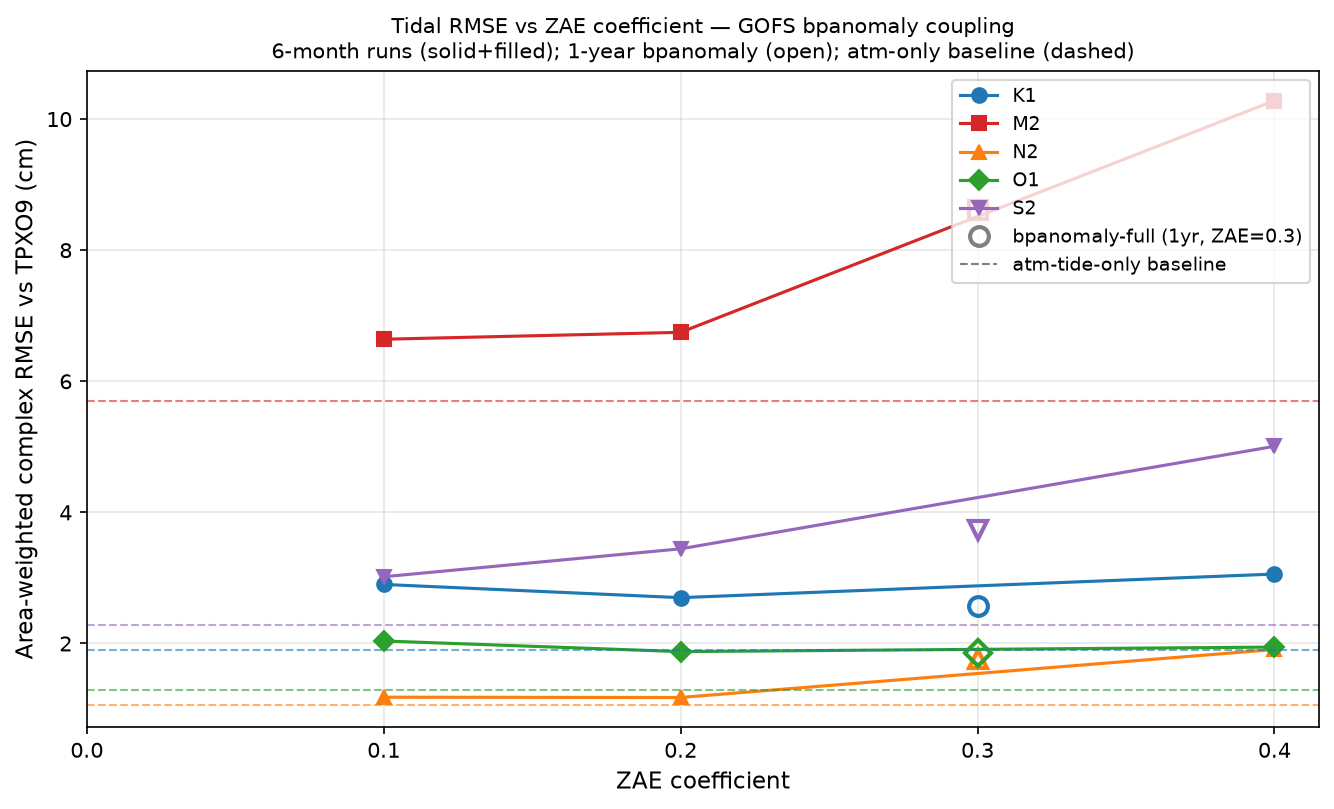
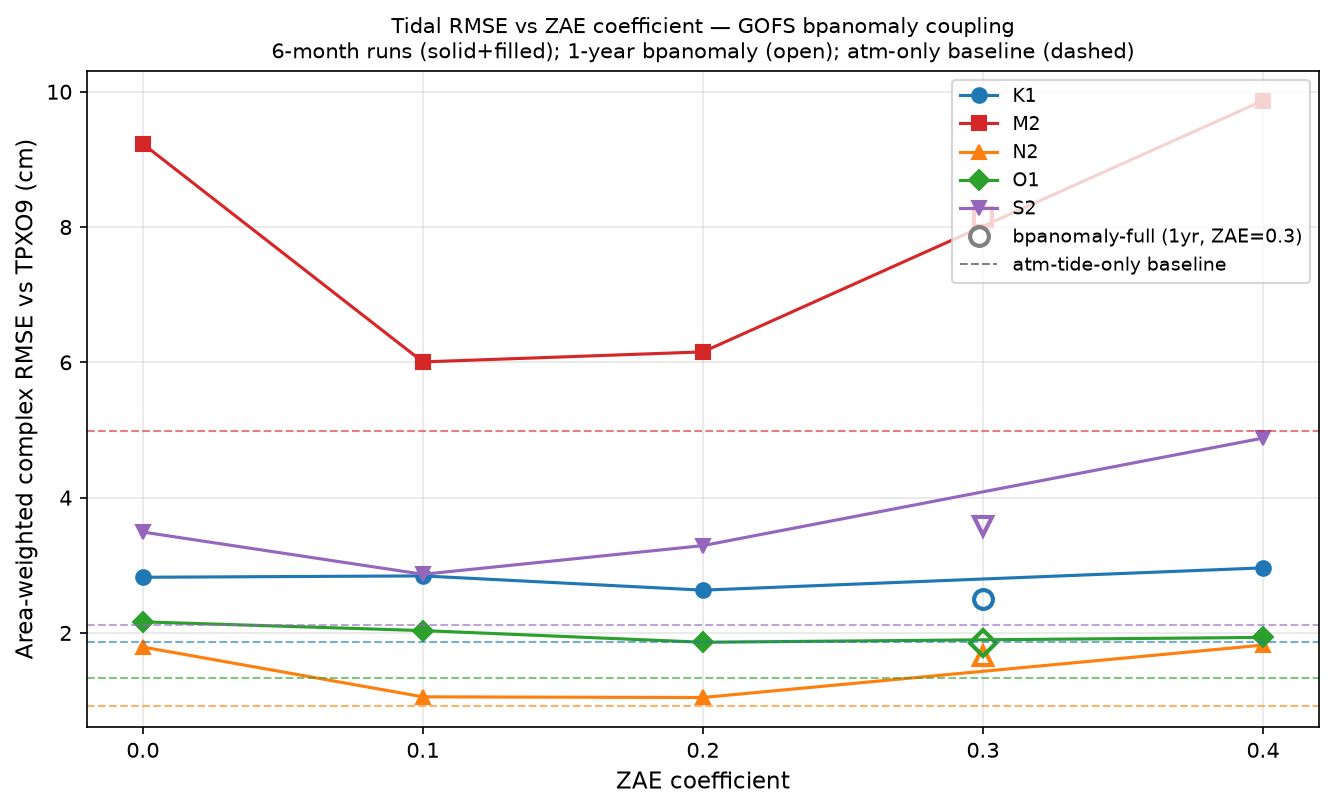
Add ZAE=0.0 run to dashboard and refresh all ZAE tables
- Inject TPXO9 fields into ZAE0.0 harmonic file from existing extraction
- Generate amplitude/phase error maps and copy compass harmonic plots
- Add ZAE=0.0 tab to tpxo.html and zae.html constituent map viewers
- Refresh all RMSE tables with consistent depth>20m global mask
- Update M2 spatial map to 4-panel (0.0, 0.1, 0.2, 0.4)
- Update key findings: ZAE=0.0 catastrophic shallow M2 (22 cm), optimum 0.1–0.2

diff --git a/zae.html b/zae.html
@@ -237,17 +237,22 @@
     <div class="key-finding">
       <strong>No ZAE value recovers baseline accuracy.</strong>
       The atm-tide-only run (ZAE=0.3, 1yr, no GOFS coupling) outperforms every
-      bpanomaly run for all five constituents.
+      bpanomaly run for all five constituents globally.
     </div>
     <div class="key-finding">
-      <strong>ZAE=0.1 is best for semidiurnals (M2, S2, N2) in this coupled set.</strong>
-      RMSE is nearly flat between 0.1 and 0.2, then degrades sharply at 0.4 —
-      suggesting over-dissipation of the barotropic wave at high drag.
+      <strong>ZAE=0.0 and ZAE=0.4 are both poor for M2 (globally ~9.2 and 9.9 cm).</strong>
+      ZAE=0.1–0.2 is the sweet spot, with M2 global RMSE around 6 cm — the optimum
+      is broad and flat rather than sharply peaked.
     </div>
     <div class="key-finding">
-      <strong>Diurnals (K1, O1) are less sensitive to ZAE</strong> than semidiurnals,
-      consistent with the dominant error mechanism being phase shift of the M2/S2
-      barotropic wave rather than amplitude dissipation.
+      <strong>ZAE=0.0 produces catastrophic M2 shallow RMSE (22 cm)</strong> — without
+      internal wave drag the barotropic tide is severely over-predicted in shelf regions.
+      ZAE=0.1 cuts this nearly in half.
+    </div>
+    <div class="key-finding">
+      <strong>Diurnals (K1, O1) show a different optimum than semidiurnals.</strong>
+      ZAE=0.2 is best for K1 and O1 globally, while ZAE=0.1 is best for M2, S2, N2 —
+      consistent with the dominant error for diurnals being amplitude rather than phase.
     </div>
   </div>
 
@@ -258,7 +263,7 @@
       <img src="img/zae/rmse_vs_zae.png" alt="RMSE vs ZAE coefficient">
     </div>
     <p class="caption">
-      Filled markers: 6-month bpanomaly runs at ZAE=0.1, 0.2, 0.4.
+      Filled markers: 6-month bpanomaly runs at ZAE=0.0, 0.1, 0.2, 0.4.
       Open markers: 1-year bpanomaly run at ZAE=0.3.
       Dashed lines: atm-tide-only baseline (1yr, ZAE=0.3).
     </p>
@@ -268,11 +273,11 @@
   <div class="card">
     <h2>M2 Spatial RMSE Maps</h2>
     <div class="overview-img">
-      <img src="img/zae/M2_rmse_maps.png" alt="M2 RMSE maps for ZAE=0.1, 0.2, 0.4">
+      <img src="img/zae/M2_rmse_maps.png" alt="M2 RMSE maps for ZAE=0.0, 0.1, 0.2, 0.4">
     </div>
     <p class="caption">
-      M2 complex RMSE (cm) vs TPXO9 for ZAE=0.1 (left), 0.2 (center), and 0.4 (right).
-      Common color scale clipped at 98th percentile across the three maps.
+      M2 complex RMSE (cm) vs TPXO9 for ZAE=0.0 (left), 0.1, 0.2, and 0.4 (right).
+      Common color scale clipped at 98th percentile across the four maps.
     </p>
   </div>
 
@@ -281,7 +286,8 @@
     <h2>Constituent Maps by ZAE Run</h2>
 
     <div class="run-tabs" id="run-tabs">
-      <div class="run-tab active" onclick="selectRun('ZAE0.1')">ZAE=0.1</div>
+      <div class="run-tab active" onclick="selectRun('ZAE0.0')">ZAE=0.0</div>
+      <div class="run-tab"       onclick="selectRun('ZAE0.1')">ZAE=0.1</div>
       <div class="run-tab"       onclick="selectRun('ZAE0.2')">ZAE=0.2</div>
       <div class="run-tab"       onclick="selectRun('ZAE0.4')">ZAE=0.4</div>
     </div>
@@ -302,7 +308,7 @@
     </div>
 
     <div class="plot-display" id="plot-display">
-      <img id="plot-img" src="img/tpxo/ZAE0.1/M2_plot.png" alt="M2 ZAE0.1 TPXO9 comparison">
+      <img id="plot-img" src="img/tpxo/ZAE0.0/M2_plot.png" alt="M2 ZAE0.0 TPXO9 comparison">
     </div>
     <p class="caption" id="plot-caption">
       Each panel: (top-left) MPAS-Ocean amplitude, (top-right) TPXO9 amplitude,
@@ -327,6 +333,7 @@
         <thead>
           <tr>
             <th>Con</th>
+            <th><span class="run-badge" style="background:#ff7f0e"></span>ZAE=0.0<br><small>6mo</small></th>
             <th><span class="run-badge" style="background:#ff7f0e"></span>ZAE=0.1<br><small>6mo</small></th>
             <th><span class="run-badge" style="background:#ff7f0e"></span>ZAE=0.2<br><small>6mo</small></th>
             <th><span class="run-badge" style="background:#ff7f0e"></span>ZAE=0.4<br><small>6mo</small></th>
@@ -335,11 +342,11 @@
           </tr>
         </thead>
         <tbody>
-          <tr><td>M2</td> <td class="best">5.867</td> <td>6.009</td> <td class="worst">9.763</td> <td>8.024</td> <td>4.837</td></tr>
-          <tr><td>S2</td> <td class="best">2.738</td> <td>3.180</td> <td class="worst">4.779</td> <td>3.480</td> <td>1.953</td></tr>
-          <tr><td>N2</td> <td class="best">1.023</td> <td>1.019</td> <td class="worst">1.803</td> <td>1.636</td> <td>0.886</td></tr>
-          <tr><td>K1</td> <td>2.752</td>          <td class="best">2.534</td> <td class="worst">2.879</td> <td>2.401</td> <td>1.732</td></tr>
-          <tr><td>O1</td> <td>1.921</td>          <td class="best">1.747</td> <td>1.824</td>          <td>1.740</td> <td class="best">1.158</td></tr>
+          <tr><td>M2</td> <td>9.230</td> <td class="best">6.006</td> <td>6.154</td> <td class="worst">9.869</td> <td>8.142</td> <td>4.979</td></tr>
+          <tr><td>S2</td> <td>3.491</td> <td class="best">2.867</td> <td>3.291</td> <td class="worst">4.881</td> <td>3.582</td> <td>2.117</td></tr>
+          <tr><td>N2</td> <td>1.791</td> <td class="best">1.055</td> <td>1.046</td> <td class="worst">1.820</td> <td>1.654</td> <td>0.920</td></tr>
+          <tr><td>K1</td> <td>2.823</td> <td>2.843</td>          <td class="best">2.632</td> <td class="worst">2.962</td> <td>2.496</td> <td>1.861</td></tr>
+          <tr><td>O1</td> <td class="worst">2.164</td> <td>2.034</td> <td class="best">1.862</td> <td>1.934</td> <td>1.858</td> <td>1.336</td></tr>
         </tbody>
       </table>
     </div>
@@ -350,6 +357,7 @@
         <thead>
           <tr>
             <th>Con</th>
+            <th><span class="run-badge" style="background:#ff7f0e"></span>ZAE=0.0<br><small>6mo</small></th>
             <th><span class="run-badge" style="background:#ff7f0e"></span>ZAE=0.1<br><small>6mo</small></th>
             <th><span class="run-badge" style="background:#ff7f0e"></span>ZAE=0.2<br><small>6mo</small></th>
             <th><span class="run-badge" style="background:#ff7f0e"></span>ZAE=0.4<br><small>6mo</small></th>
@@ -358,11 +366,11 @@
           </tr>
         </thead>
         <tbody>
-          <tr><td>M2</td> <td class="best">3.759</td> <td>4.621</td> <td class="worst">9.019</td> <td>7.135</td> <td>2.695</td></tr>
-          <tr><td>S2</td> <td class="best">2.113</td> <td>2.657</td> <td class="worst">4.320</td> <td>3.065</td> <td>1.336</td></tr>
-          <tr><td>N2</td> <td class="best">0.695</td> <td>0.821</td> <td class="worst">1.672</td> <td>1.426</td> <td>0.542</td></tr>
-          <tr><td>K1</td> <td>1.609</td>          <td class="best">1.339</td> <td class="worst">1.754</td> <td>1.261</td> <td>1.134</td></tr>
-          <tr><td>O1</td> <td class="worst">1.365</td> <td>1.132</td> <td>1.261</td>          <td>1.112</td> <td class="best">0.686</td></tr>
+          <tr><td>M2</td> <td>6.966</td> <td class="best">3.759</td> <td>4.621</td> <td class="worst">9.019</td> <td>7.135</td> <td>2.695</td></tr>
+          <tr><td>S2</td> <td>2.818</td> <td class="best">2.113</td> <td>2.657</td> <td class="worst">4.320</td> <td>3.065</td> <td>1.336</td></tr>
+          <tr><td>N2</td> <td>1.423</td> <td class="best">0.695</td> <td>0.821</td> <td class="worst">1.672</td> <td>1.426</td> <td>0.542</td></tr>
+          <tr><td>K1</td> <td class="worst">1.762</td> <td>1.609</td> <td class="best">1.339</td> <td>1.754</td> <td>1.261</td> <td>1.134</td></tr>
+          <tr><td>O1</td> <td class="worst">1.439</td> <td>1.365</td> <td class="best">1.132</td> <td>1.261</td> <td>1.112</td> <td>0.686</td></tr>
         </tbody>
       </table>
     </div>
@@ -373,6 +381,7 @@
         <thead>
           <tr>
             <th>Con</th>
+            <th><span class="run-badge" style="background:#ff7f0e"></span>ZAE=0.0<br><small>6mo</small></th>
             <th><span class="run-badge" style="background:#ff7f0e"></span>ZAE=0.1<br><small>6mo</small></th>
             <th><span class="run-badge" style="background:#ff7f0e"></span>ZAE=0.2<br><small>6mo</small></th>
             <th><span class="run-badge" style="background:#ff7f0e"></span>ZAE=0.4<br><small>6mo</small></th>
@@ -381,18 +390,18 @@
           </tr>
         </thead>
         <tbody>
-          <tr><td>M2</td> <td>16.293</td>          <td class="best">14.448</td> <td class="worst">16.925</td> <td>15.379</td> <td>14.182</td></tr>
-          <tr><td>S2</td> <td class="best">6.366</td>  <td>6.869</td>          <td class="worst">8.798</td>  <td>6.824</td>  <td>4.545</td></tr>
-          <tr><td>N2</td> <td>2.703</td>           <td class="best">2.283</td>  <td>3.053</td>           <td class="worst">3.293</td>  <td>2.476</td></tr>
-          <tr><td>K1</td> <td>7.210</td>           <td>7.008</td>           <td class="worst">7.701</td>  <td class="best">6.624</td>  <td>3.966</td></tr>
-          <tr><td>O1</td> <td class="worst">4.607</td>  <td>4.536</td>          <td>4.467</td>           <td>4.523</td>           <td class="best">2.936</td></tr>
+          <tr><td>M2</td> <td class="worst">22.055</td> <td>16.286</td> <td class="best">14.442</td> <td>16.920</td> <td>15.373</td> <td>14.176</td></tr>
+          <tr><td>S2</td> <td>6.724</td>            <td class="best">6.368</td> <td>6.870</td> <td class="worst">8.797</td> <td>6.825</td>  <td>4.553</td></tr>
+          <tr><td>N2</td> <td class="worst">3.946</td>  <td>2.702</td> <td class="best">2.283</td> <td>3.053</td>           <td>3.292</td>  <td>2.475</td></tr>
+          <tr><td>K1</td> <td>6.686</td>            <td>7.213</td>          <td>7.011</td> <td class="worst">7.702</td>  <td class="best">6.626</td>  <td>3.973</td></tr>
+          <tr><td>O1</td> <td class="worst">5.136</td>  <td>4.615</td>         <td>4.543</td> <td>4.475</td>           <td>4.530</td>           <td class="best">2.946</td></tr>
         </tbody>
       </table>
     </div>
 
     <p class="caption">
       All values in cm. ★ Atm-Only is the target baseline (no GOFS coupling).
-      Green = lowest RMSE among the three 6-month ZAE runs; red = highest.
+      Green = lowest RMSE among the four 6-month ZAE runs; red = highest.
       Atm-Only and BP-Anomaly 1yr columns shown for reference only.
     </p>
   </div>
@@ -400,12 +409,12 @@
 </div>
 
 <script>
-  var currentRun   = 'ZAE0.1';
+  var currentRun   = 'ZAE0.0';
   var currentConst = 'M2';
   var currentView  = 'harmonic';
 
-  var runDirs = { 'ZAE0.1': 'img/tpxo/ZAE0.1', 'ZAE0.2': 'img/tpxo/ZAE0.2', 'ZAE0.4': 'img/tpxo/ZAE0.4' };
-  var runKeys = ['ZAE0.1', 'ZAE0.2', 'ZAE0.4'];
+  var runDirs = { 'ZAE0.0': 'img/tpxo/ZAE0.0', 'ZAE0.1': 'img/tpxo/ZAE0.1', 'ZAE0.2': 'img/tpxo/ZAE0.2', 'ZAE0.4': 'img/tpxo/ZAE0.4' };
+  var runKeys = ['ZAE0.0', 'ZAE0.1', 'ZAE0.2', 'ZAE0.4'];
 
   var viewFiles = { 'harmonic': '_plot.png', 'amperr': '_amp_error.png', 'phaseerr': '_phase_error.png' };
   var captions = {

diff --git a/tpxo.html b/tpxo.html
@@ -246,17 +246,18 @@
             <th>Con</th>
             <th><span class="run-badge" style="background:#2ca02c"></span>BP Anomaly<br><small>1yr</small></th>
             <th><span class="run-badge" style="background:#1f77b4"></span>Atm Only<br><small>1yr</small></th>
+            <th><span class="run-badge" style="background:#ff7f0e"></span>ZAE=0.0<br><small>6mo</small></th>
             <th><span class="run-badge" style="background:#ff7f0e"></span>ZAE=0.1<br><small>6mo</small></th>
             <th><span class="run-badge" style="background:#ff7f0e"></span>ZAE=0.2<br><small>6mo</small></th>
             <th><span class="run-badge" style="background:#ff7f0e"></span>ZAE=0.4<br><small>6mo</small></th>
           </tr>
         </thead>
         <tbody>
-          <tr><td>M2</td> <td>8.024</td>          <td class="best">4.837</td> <td>5.867</td> <td>6.009</td> <td class="worst">9.763</td></tr>
-          <tr><td>S2</td> <td>3.480</td>          <td class="best">1.953</td> <td>2.738</td> <td>3.180</td> <td class="worst">4.779</td></tr>
-          <tr><td>N2</td> <td>1.636</td>          <td class="best">0.886</td> <td>1.023</td> <td>1.019</td> <td class="worst">1.803</td></tr>
-          <tr><td>K1</td> <td class="worst">2.401</td> <td class="best">1.732</td> <td>2.752</td> <td>2.534</td> <td>2.879</td></tr>
-          <tr><td>O1</td> <td>1.740</td>          <td class="best">1.158</td> <td>1.921</td> <td>1.747</td> <td class="worst">1.824</td></tr>
+          <tr><td>M2</td> <td>8.142</td>          <td class="best">4.979</td> <td>9.230</td> <td>6.006</td> <td>6.154</td> <td class="worst">9.869</td></tr>
+          <tr><td>S2</td> <td>3.582</td>          <td class="best">2.117</td> <td>3.491</td> <td>2.867</td> <td>3.291</td> <td class="worst">4.881</td></tr>
+          <tr><td>N2</td> <td>1.654</td>          <td class="best">0.920</td> <td>1.791</td> <td>1.055</td> <td>1.046</td> <td class="worst">1.820</td></tr>
+          <tr><td>K1</td> <td>2.496</td>          <td class="best">1.861</td> <td>2.823</td> <td>2.843</td> <td>2.632</td> <td class="worst">2.962</td></tr>
+          <tr><td>O1</td> <td>1.858</td>          <td class="best">1.336</td> <td class="worst">2.164</td> <td>2.034</td> <td>1.862</td> <td>1.934</td></tr>
         </tbody>
       </table>
     </div>
@@ -269,17 +270,18 @@
             <th>Con</th>
             <th><span class="run-badge" style="background:#2ca02c"></span>BP Anomaly<br><small>1yr</small></th>
             <th><span class="run-badge" style="background:#1f77b4"></span>Atm Only<br><small>1yr</small></th>
+            <th><span class="run-badge" style="background:#ff7f0e"></span>ZAE=0.0<br><small>6mo</small></th>
             <th><span class="run-badge" style="background:#ff7f0e"></span>ZAE=0.1<br><small>6mo</small></th>
             <th><span class="run-badge" style="background:#ff7f0e"></span>ZAE=0.2<br><small>6mo</small></th>
             <th><span class="run-badge" style="background:#ff7f0e"></span>ZAE=0.4<br><small>6mo</small></th>
           </tr>
         </thead>
         <tbody>
-          <tr><td>M2</td> <td>7.135</td>          <td class="best">2.695</td> <td>3.759</td> <td>4.621</td> <td class="worst">9.019</td></tr>
-          <tr><td>S2</td> <td>3.065</td>          <td class="best">1.336</td> <td>2.113</td> <td>2.657</td> <td class="worst">4.320</td></tr>
-          <tr><td>N2</td> <td>1.426</td>          <td class="best">0.542</td> <td>0.695</td> <td>0.821</td> <td class="worst">1.672</td></tr>
-          <tr><td>K1</td> <td class="worst">1.261</td> <td class="best">1.134</td> <td>1.609</td> <td>1.339</td> <td>1.754</td></tr>
-          <tr><td>O1</td> <td>1.112</td>          <td class="best">0.686</td> <td>1.365</td> <td>1.132</td> <td class="worst">1.261</td></tr>
+          <tr><td>M2</td> <td>7.135</td>          <td class="best">2.695</td> <td>6.966</td> <td>3.759</td> <td>4.621</td> <td class="worst">9.019</td></tr>
+          <tr><td>S2</td> <td>3.065</td>          <td class="best">1.336</td> <td>2.818</td> <td>2.113</td> <td>2.657</td> <td class="worst">4.320</td></tr>
+          <tr><td>N2</td> <td>1.426</td>          <td class="best">0.542</td> <td>1.423</td> <td>0.695</td> <td>0.821</td> <td class="worst">1.672</td></tr>
+          <tr><td>K1</td> <td>1.261</td>          <td class="best">1.134</td> <td class="worst">1.762</td> <td>1.609</td> <td>1.339</td> <td>1.754</td></tr>
+          <tr><td>O1</td> <td>1.112</td>          <td class="best">0.686</td> <td class="worst">1.439</td> <td>1.365</td> <td>1.132</td> <td>1.261</td></tr>
         </tbody>
       </table>
     </div>
@@ -292,17 +294,18 @@
             <th>Con</th>
             <th><span class="run-badge" style="background:#2ca02c"></span>BP Anomaly<br><small>1yr</small></th>
             <th><span class="run-badge" style="background:#1f77b4"></span>Atm Only<br><small>1yr</small></th>
+            <th><span class="run-badge" style="background:#ff7f0e"></span>ZAE=0.0<br><small>6mo</small></th>
             <th><span class="run-badge" style="background:#ff7f0e"></span>ZAE=0.1<br><small>6mo</small></th>
             <th><span class="run-badge" style="background:#ff7f0e"></span>ZAE=0.2<br><small>6mo</small></th>
             <th><span class="run-badge" style="background:#ff7f0e"></span>ZAE=0.4<br><small>6mo</small></th>
           </tr>
         </thead>
         <tbody>
-          <tr><td>M2</td> <td>15.379</td>         <td class="best">14.182</td> <td>16.293</td> <td>14.448</td> <td class="worst">16.925</td></tr>
-          <tr><td>S2</td> <td>6.824</td>          <td class="best">4.545</td>  <td>6.366</td>  <td>6.869</td>  <td class="worst">8.798</td></tr>
-          <tr><td>N2</td> <td>3.293</td>          <td class="best">2.476</td>  <td>2.703</td>  <td class="best">2.283</td> <td class="worst">3.053</td></tr>
-          <tr><td>K1</td> <td>6.624</td>          <td class="best">3.966</td>  <td class="worst">7.210</td> <td>7.008</td> <td>7.701</td></tr>
-          <tr><td>O1</td> <td>4.523</td>          <td class="best">2.936</td>  <td class="worst">4.607</td> <td>4.536</td> <td>4.467</td></tr>
+          <tr><td>M2</td> <td>15.373</td>         <td>14.176</td>         <td class="worst">22.055</td> <td>16.286</td> <td class="best">14.442</td> <td>16.920</td></tr>
+          <tr><td>S2</td> <td>6.825</td>          <td class="best">4.553</td> <td>6.724</td>          <td>6.368</td>  <td>6.870</td>  <td class="worst">8.797</td></tr>
+          <tr><td>N2</td> <td>3.292</td>          <td class="best">2.475</td> <td class="worst">3.946</td> <td>2.702</td> <td>2.283</td> <td>3.053</td></tr>
+          <tr><td>K1</td> <td>6.626</td>          <td class="best">3.973</td> <td>6.686</td>          <td>7.213</td>  <td>7.011</td>  <td class="worst">7.702</td></tr>
+          <tr><td>O1</td> <td>4.530</td>          <td class="best">2.946</td> <td class="worst">5.136</td> <td>4.615</td> <td>4.543</td> <td>4.475</td></tr>
         </tbody>
       </table>
     </div>
@@ -322,6 +325,7 @@
     <div class="run-tabs" id="run-tabs">
       <div class="run-tab run-coupled  active" onclick="selectRun('bpanomaly')">BP Anomaly (1yr)</div>
       <div class="run-tab run-baseline"        onclick="selectRun('atm-tide-only')">Atm Only (1yr)</div>
+      <div class="run-tab run-zae"             onclick="selectRun('ZAE0.0')">ZAE=0.0 (6mo)</div>
       <div class="run-tab run-zae"             onclick="selectRun('ZAE0.1')">ZAE=0.1 (6mo)</div>
       <div class="run-tab run-zae"             onclick="selectRun('ZAE0.2')">ZAE=0.2 (6mo)</div>
       <div class="run-tab run-zae"             onclick="selectRun('ZAE0.4')">ZAE=0.4 (6mo)</div>
@@ -367,6 +371,7 @@
   var runDirs = {
     'bpanomaly':    'img/tpxo/bpanomaly',
     'atm-tide-only':'img/tpxo/atm-tide-only',
+    'ZAE0.0':       'img/tpxo/ZAE0.0',
     'ZAE0.1':       'img/tpxo/ZAE0.1',
     'ZAE0.2':       'img/tpxo/ZAE0.2',
     'ZAE0.4':       'img/tpxo/ZAE0.4',
@@ -409,7 +414,7 @@
 
     // Update run tab highlighting
     var tabs = document.querySelectorAll('.run-tab');
-    var runKeys = ['bpanomaly', 'atm-tide-only', 'ZAE0.1', 'ZAE0.2', 'ZAE0.4'];
+    var runKeys = ['bpanomaly', 'atm-tide-only', 'ZAE0.0', 'ZAE0.1', 'ZAE0.2', 'ZAE0.4'];
     tabs.forEach(function(t, i) { t.classList.toggle('active', runKeys[i] === run); });
 
     // Show diff/bias view buttons only for bpanomaly
